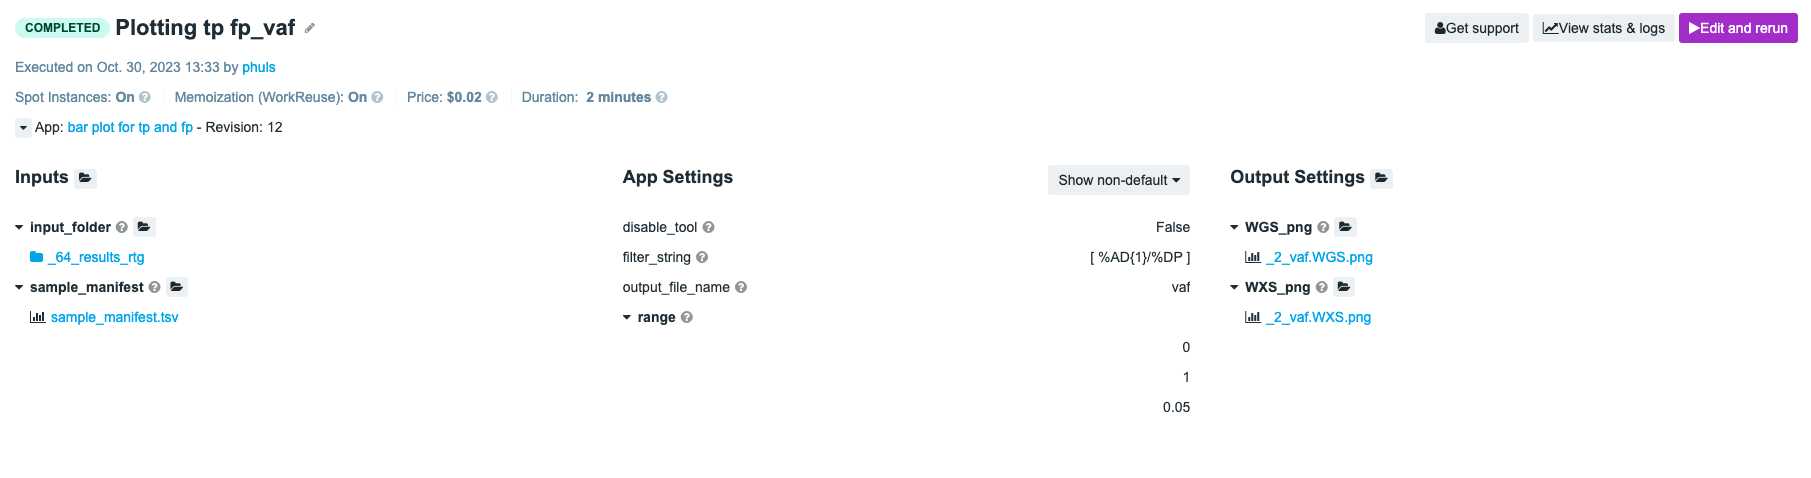
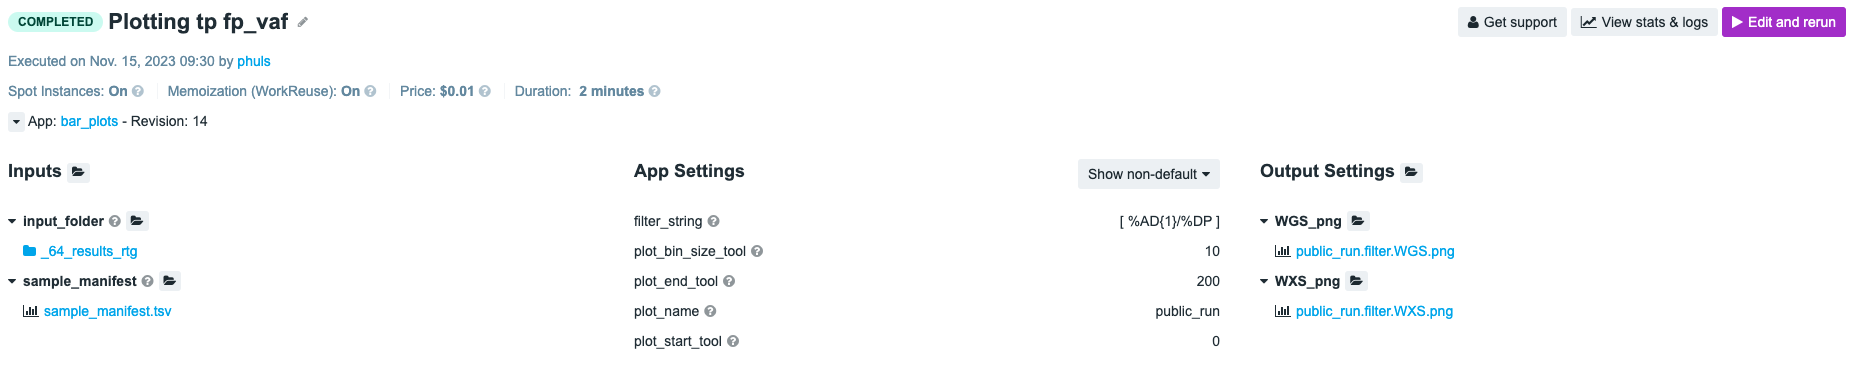
update images with new design

diff --git a/README.md b/README.md
@@ -10,7 +10,7 @@ The D3b Bixu VCF Benchmarking Workflow is composed of three Common Workflow Lang
 
 2. run_rtg_tool: User have to provide all the target VCF files in a folder and all the gold standard files in another folder. This tool will create a manifest using target VCFs by pulling sample id from VCF header and will aim to look for corresponding gold standard VCFs. This tool can optionally filter target VCFs if a filter string is provided. Finally, RTG Tools computes the confusion matrix comparing the, optionally-filtered, target VCFs against their associated gold standard VCFs.
 
-3. bar_plots: This tool takes rtg_results folder as input that contains `tp.vcf.gz` & `fp.vcf.gz` for all desired samples, plot feature (Example: `[%DP ]`) and a manifest for samples that informs this tool about experimental strategy. This tool will loop over all the sample folders and will pull TPs & FPs. Further, it will plot stack bar plots for Whole Genome Sequencing (WGS) and Whole Exome Sequencing (WXS) separately.
+3. bar_plots: This tool takes rtg_results folder as input that contains `tp.vcf.gz` & `fp.vcf.gz` for all desired samples, plot feature (Example: `[%DP]`) and a manifest for samples that informs this tool about experimental strategy (WGS or WXS). This tool will loop over all the rtg generated sample folders and will pull TPs & FPs. Further, it will plot stack bar plots for Whole Genome Sequencing (WGS) and Whole Exome Sequencing (WXS) separately.
 
  To provide flexibility and save cost for analysis, the plotting tool from above can also be run independently. That tool can be found on [CAVATICA](https://cavatica.sbgenomics.com/u/d3b-bixu/kf-tumor-only-wf-dev/apps/filter_plotting).
 
